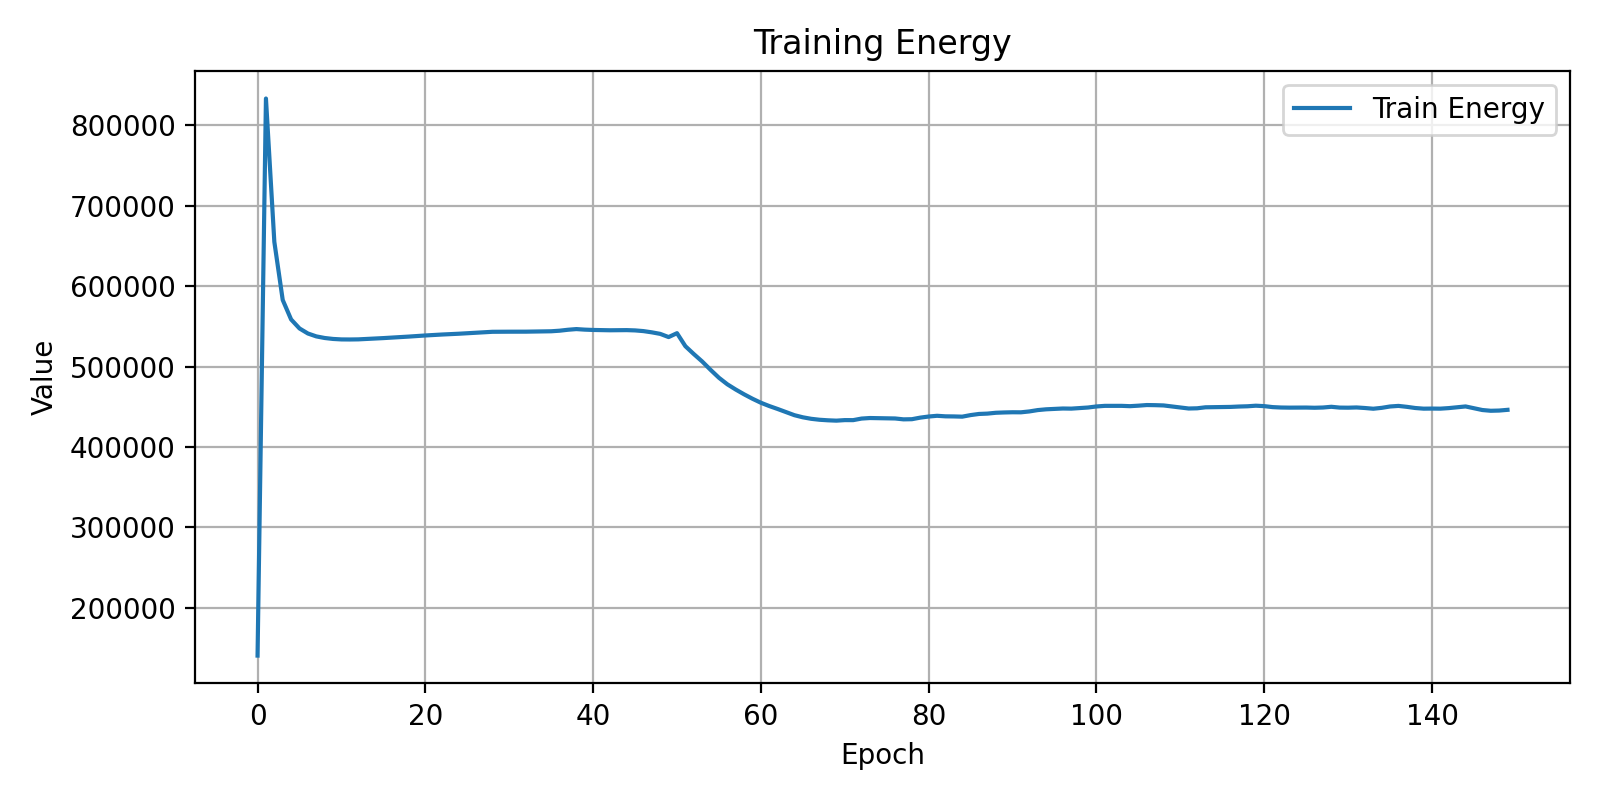
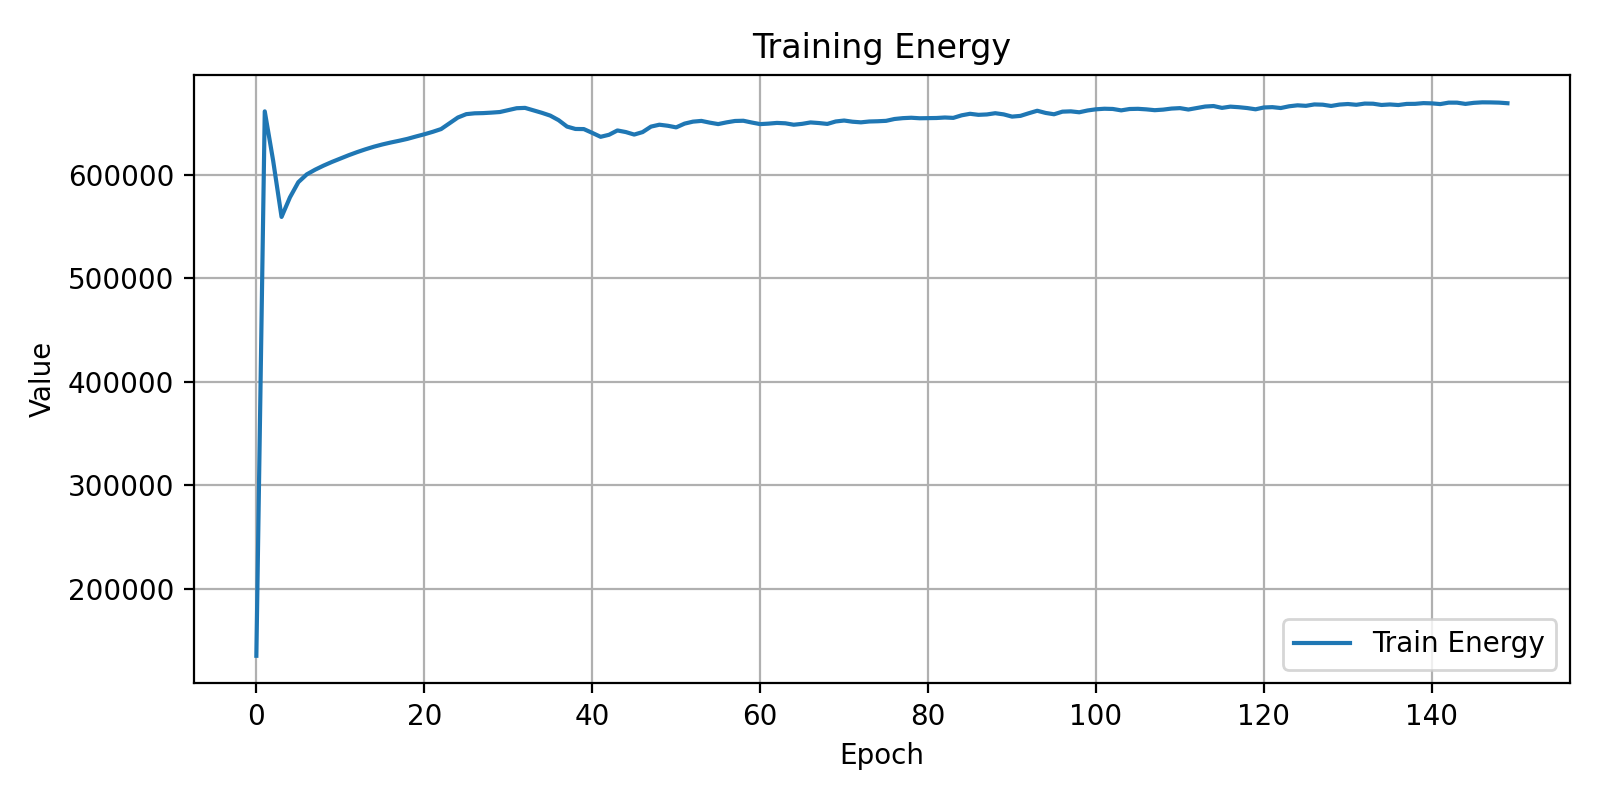
beginning training of iris with snn meta

diff --git a/07_spike_meta.py b/07_spike_meta.py
@@ -3,23 +3,27 @@ import torch.nn as nn
 import pygmo as pg
 import numpy as np
 
-from functions.utils.utils import vector_to_weights
+from functions.metrics import precision_recall_f1_binary, macro_precision_recall_f1
+
 from sklearn.model_selection import train_test_split
 from sklearn.preprocessing import StandardScaler
+
 from sklearn.datasets import load_iris, load_wine, load_breast_cancer
 
-from functions.utils.utils import to_static_seq, get_linear_layers, dim_from_layers
+from functions.utils.utils import get_linear_layers, dim_from_layers, vector_to_weights
 from models.spike_nn import SpikeNeuralNetwork
-from functions.SNNProblem_CE_mem import SNNProblem_CE_mem
+from functions.SNNProblem_snn import SNNProblem_snn
 
 #----------------------------------------------
 # Pre-Processing
 #----------------------------------------------
+random_state = 250
+
 iris = load_iris()
 X = iris.data.astype(np.float32)
 y = iris.target.astype(np.int64)
 
-X_train, X_test, y_train, y_test = train_test_split(X, y, stratify=y, test_size=0.2, random_state=42)
+X_train, X_test, y_train, y_test = train_test_split(X, y, stratify=y, test_size=0.2, random_state=random_state)
 
 scaler = StandardScaler()
 X_train = scaler.fit_transform(X_train)
@@ -36,15 +40,14 @@ input_dim = X_train.shape[1]
 hidden_dim = 64
 num_classes = int(torch.unique(y_train_tensor).numel())
 
-beta = 1.0
-threshold = 0.5
+beta = 0.95
+threshold = 1.0
 bias = False
-ce = nn.CrossEntropyLoss()
-gen = 150
-pop = 20
 
-# X_train_tensor = to_static_seq(X_train_tensor, T)
-# X_test_tensor = to_static_seq(X_test_tensor, T)
+ce = nn.CrossEntropyLoss()
+
+gen = 100
+pop = 40
 
 #----------------------------------------------
 # Defining the model and the problem
@@ -65,7 +68,7 @@ print(f"Dimension: {dim}")
 lb = [-3.0] * dim
 ub = [3.0] * dim
 
-upd = SNNProblem_CE_mem(
+upd = SNNProblem_snn(
     model=net,
     X=X_train_tensor, 
     y=y_train_tensor,
@@ -82,11 +85,11 @@ upd = SNNProblem_CE_mem(
 #-------------------------------------------
 prob = pg.problem(upd)
 
-algo = pg.algorithm(pg.pso(
+algo = pg.algorithm(pg.gwo(
     gen=gen
 ))
 algo.set_verbosity(1)   #for visualization
-pop = pg.population(prob, size=pop, seed=42)
+pop = pg.population(prob, size=pop, seed=random_state)
 pop = algo.evolve(pop)
 
 #-------------------------------
@@ -95,20 +98,44 @@ pop = algo.evolve(pop)
 best_w = pop.champion_x
 best_w_t = torch.as_tensor(best_w, dtype=torch.float32, device=device)
 vector_to_weights(best_w_t, layers)
+
 net.eval()
 with torch.no_grad():
     # Train
-    spk_tr, mem_tr = net(X_train_tensor)
+    spk_tr, mem_tr, _ = net(X_train_tensor, T)
     logits_tr = mem_tr.mean(dim=0)
     pred_tr = logits_tr.argmax(dim=1)
+    
     acc_tr = (pred_tr == y_train_tensor).float().mean().item()
     loss_tr = ce(logits_tr, y_train_tensor).item()
     
     # Test
-    spk_te, mem_te = net(X_test_tensor, T)
+    spk_te, mem_te, energy_te = net(X_test_tensor, T)
     logits_te = mem_te.mean(dim=0)
-    pred_te = logits_te.argmax(dim=1)
-    acc_te = (pred_te == y_test_tensor).float().mean().item()
-    loss_te = ce(logits_te, y_test_tensor).item()
+    test_pred = logits_te.argmax(dim=1)
     
-    print(f"Test loss: {loss_te:.4f} | Test acc: {acc_te:.4f}")
+    test_acc = (test_pred == y_test_tensor).float().mean().item()
+    test_loss = ce(logits_te, y_test_tensor).item()
+    
+    p, r, f1 = macro_precision_recall_f1(test_pred, y_test_tensor, num_classes)
+    energy_te = energy_te.item()
+    
+    print(f"Acc Train: {acc_tr} | Acc Test: {test_acc}")
+    
+print(f"Evaluation on the test set:")
+print(f"Test Loss: {test_loss}")
+print(f"Test Acc: {test_acc}")
+print(f"Test precision: {p}")
+print(f"Test recall: {r}")
+print(f"Test f1-score: {f1}")
+print(f"Test Energy per sample: {(energy_te / T):.5f}")
+
+out_dir = 'results/iris/snn/gwo'
+with open(out_dir + "/iris_snn_gwo_5.txt", "w", encoding="utf-8") as f:
+    f.write("Evaluation on the test set\n")
+    f.write(f"Test Loss: {test_loss:.5f}\n")
+    f.write(f"Test Acc: {test_acc:.5f}\n")
+    f.write(f"Test Precision: {p:.5f}\n")
+    f.write(f"Test Recall: {r:.5f}\n")
+    f.write(f"Test f1: {f1:.5f}\n")
+    f.write(f"Test Energy per sample: {(energy_te / T):.5f}")

diff --git a/functions/load_adult_balanced.py b/functions/load_adult_balanced.py
@@ -1,0 +1,80 @@
+from sklearn.datasets import fetch_openml
+from sklearn.model_selection import train_test_split
+from sklearn.preprocessing import StandardScaler, OneHotEncoder
+from sklearn.compose import ColumnTransformer
+import torch
+
+def load_adult_balanced():
+    device = torch.device("cuda") if torch.cuda.is_available() else "cpu"
+
+    # Load Adult dataset
+    adult = fetch_openml(name="adult", version=2, as_frame=True)
+
+    X = adult.data
+    y = (adult.target == ">50K").astype(int)
+
+    # Split columns
+    num_cols = X.select_dtypes(include=["int64", "float64"]).columns
+    cat_cols = X.select_dtypes(include=["object", "category"]).columns
+
+    # Preprocessing
+    preprocessor = ColumnTransformer([
+        ("num", StandardScaler(), num_cols),
+        ("cat", OneHotEncoder(handle_unknown="ignore", sparse_output=False), cat_cols)
+    ])
+
+    # Train / test split
+    X_train_full, X_test_full, y_train_full, y_test_full = train_test_split(
+        X, y,
+        test_size=0.2,
+        random_state=42,
+        stratify=y
+    )
+
+    # Transform
+    X_train_full = preprocessor.fit_transform(X_train_full)
+    X_test_full  = preprocessor.transform(X_test_full)
+    
+    # -------------------------
+    # Select small subsets
+    #   - TRAIN: bilanciato (2000 classe 0 + 2000 classe 1)
+    #   - TEST: stratificato (non bilanciato)
+    # -------------------------
+
+    # TRAIN bilanciato
+    y_train_arr = y_train_full.to_numpy()  # y_train_full è una Series
+    idx0 = (y_train_arr == 0).nonzero()[0]
+    idx1 = (y_train_arr == 1).nonzero()[0]
+
+    rng = torch.Generator().manual_seed(42)
+    # se preferisci numpy: np.random.default_rng(42)
+
+    # campiona senza rimpiazzo
+    idx0_sel = torch.tensor(idx0)[torch.randperm(len(idx0), generator=rng)[:2000]].numpy()
+    idx1_sel = torch.tensor(idx1)[torch.randperm(len(idx1), generator=rng)[:2000]].numpy()
+
+    idx_sel = torch.tensor(
+        torch.cat([torch.tensor(idx0_sel), torch.tensor(idx1_sel)])[torch.randperm(4000, generator=rng)]
+    ).numpy()
+
+    X_train = X_train_full[idx_sel]
+    y_train = y_train_full.iloc[idx_sel]
+
+    # TEST (lascialo stratificato/naturale)
+    X_test, _, y_test, _ = train_test_split(
+        X_test_full, y_test_full,
+        train_size=800,
+        random_state=42,
+        stratify=y_test_full
+    )
+
+    # -------------------------
+    # To torch tensors
+    # -------------------------
+    X_train = torch.tensor(X_train, dtype=torch.float32, device=device)
+    y_train = torch.tensor(y_train.values, dtype=torch.long, device=device)
+
+    X_test  = torch.tensor(X_test,  dtype=torch.float32, device=device)
+    y_test  = torch.tensor(y_test.values,  dtype=torch.long, device=device)
+
+    return X_train, X_test, y_train, y_test

diff --git a/06_spike_bp_Adult.py b/06_spike_bp_Adult.py
@@ -5,12 +5,12 @@ import pygmo as pg
 import matplotlib.pyplot as plt
 
 from functions.metrics import precision_recall_f1_binary
-from functions.load_adult import load_adult
+from functions.load_adult_balanced import load_adult_balanced
 
 #-------------------------------------------------------------------------------------
 # Import dataset
 #-------------------------------------------------------------------------------------
-X_train_tensor, X_test_tensor, y_train_tensor, y_test_tensor = load_adult()
+X_train_tensor, X_test_tensor, y_train_tensor, y_test_tensor = load_adult_balanced()
 random_state = 42
 
 #-------------------------------------------------------------------------------------
@@ -112,7 +112,6 @@ with torch.no_grad():
     energy_te = energy_te.item()
 
     print(f"Test:\nLoss: {test_loss:.4f} | Acc: {test_acc:.4f} | ")
-    print(y_pred_te)
     
 p, r, f1 = precision_recall_f1_binary(y_pred_te, y_test_tensor)
 

diff --git a/functions/SNNProblem_snn.py b/functions/SNNProblem_snn.py
@@ -2,7 +2,7 @@ import torch
 
 from functions.utils.utils import vector_to_weights
 
-class SNNProblem_CE_mem:
+class SNNProblem_snn:
     def __init__(
         self,
         model,
@@ -49,7 +49,7 @@ class SNNProblem_CE_mem:
 
         self.model.eval()
         with torch.no_grad():
-            _, mem = self.model(self.X, self.num_steps)          # [T,B,C]
+            spk, mem, _ = self.model(self.X, self.num_steps)          # [T,B,C]
             logits = mem.mean(dim=0)              # [B,C]
             loss = self.ce(logits, self.y)       # CE loss
             

diff --git a/08_spike_Adult_meta.py b/08_spike_Adult_meta.py
@@ -4,7 +4,7 @@ import torch.nn as nn
 import pygmo as pg
 
 from models.spike_nn import SpikeNeuralNetwork
-from functions.SNNProblem_CE_mem import SNNProblem_CE_mem
+from functions.SNNProblem_snn import SNNProblem_CE_mem
 
 from functions.utils.utils import dim_from_layers, get_linear_layers, vector_to_weights
 
@@ -27,7 +27,7 @@ bias = False
 
 beta = 0.9
 threshold = 1.0
-num_steps = 1
+num_steps = 20
 
 gen = 150
 pop = 60

diff --git a/04_classic_meta_adult.py b/04_classic_meta_adult.py
@@ -72,6 +72,7 @@ best_w_t = torch.as_tensor(best_w, dtype=torch.float32, device="cpu")
 vector_to_weights(best_w_t, layers)
 net.eval()
 with torch.no_grad(): 
+    
     test_logits = net(X_test_tensor)
     test_loss = loss_fn(test_logits, y_test_tensor).item()
 
